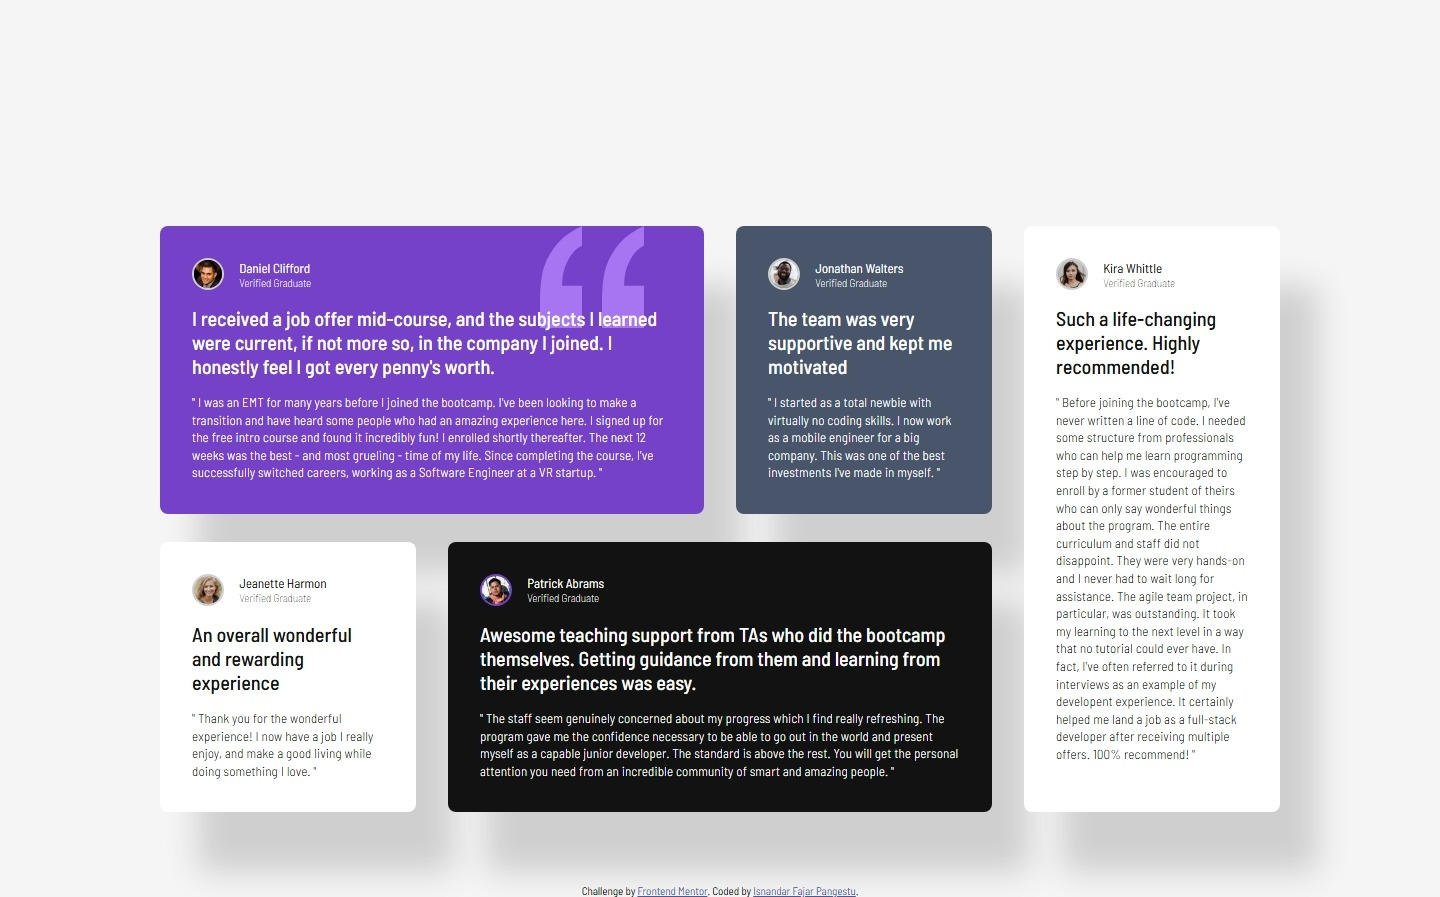
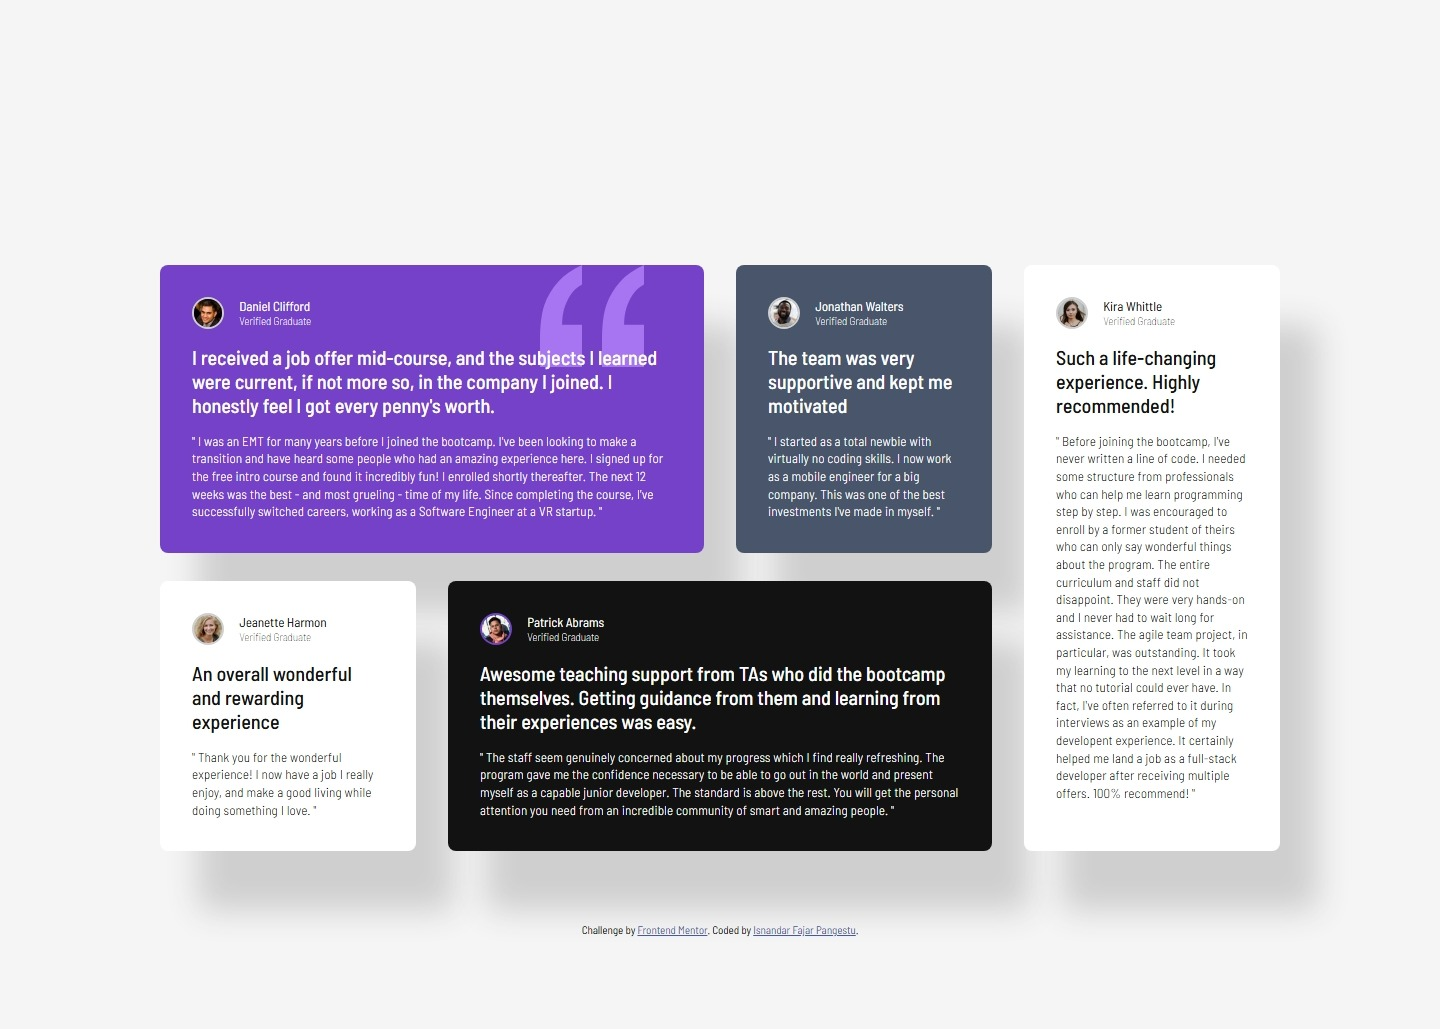
Testimonials grid section solution: Fix margin & screenshot

Changed region(s): [[0.0938, 0.2497, 0.9375, 1.0]]

diff --git a/Testimonials grid section solution/style.css b/Testimonials grid section solution/style.css
@@ -28,10 +28,13 @@
   box-sizing: border-box;
 }
 
+html,
 body {
   width: 100%;
-  min-height: 100vh;
+  min-height: 1029px;
+}
 
+body {
   display: flex;
   flex-direction: column;
   align-items: center;
@@ -159,6 +162,7 @@ hgroup p {
 
 @media (min-width: 420px) {
   main {
+    margin-top: 86px;
     max-width: 500px;
     margin-inline: auto;
     display: grid;
@@ -214,7 +218,7 @@ hgroup p {
 
 @media (min-width: 960px) {
   main {
-    margin-top: 154px;
+    margin-top: 100px;
 
     max-width: 1120px;
     grid-template-areas:
